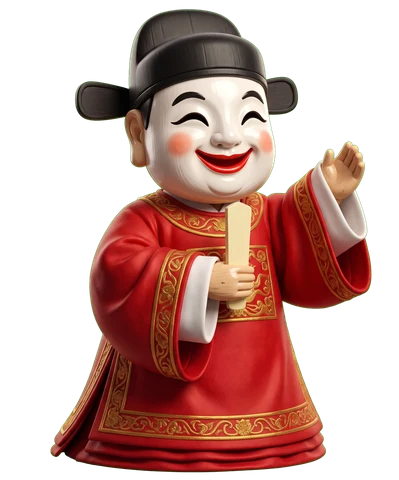
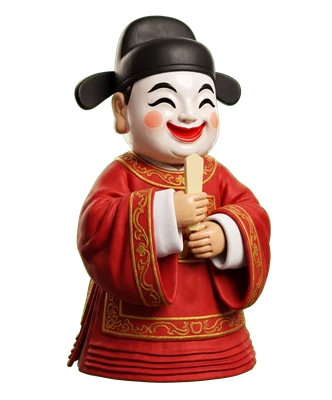
酬神戲台：戲台背景和 9 尊戲偶（關公、守關將、哪吒、敖丙、梁山伯、祝英台、惡霸、書生、跳加官換成有官帽翅膀的版本）；送神灶君換成有灶、雞、狗的新版，嘴巴位置跟著調
Claude-Session: https://claude.ai/code/session_019aNbR5ddvAxYx9BxfVzSYi

diff --git a/src/fest/games-1.js b/src/fest/games-1.js
@@ -164,7 +164,7 @@ const duster = () => `<rect x="-24" y="-22" width="48" height="94" fill="#000" o
 
 const songshen = {
   play(st, o) {
-    const ZJ_DY = hasArt('ss-zaojun') ? -3 : 4; // Gemini 灶君圖的嘴巴比畫面中心高一點
+    const ZJ_DY = hasArt('ss-zaojun') ? -14 : 4; // Gemini 灶君圖的嘴巴比畫面中心高一點
     const PRINT = [180, 200], MOUTH = [180, 200 + ZJ_DY], JAR = [72, 404], JAR_MOUTH = [72, 386];
     const BR_REST = [292, 400], DU_REST = [292, 515];
     const DUST = [[54, 452], [128, 440], [198, 460], [250, 446], [318, 470], [116, 300], [246, 120]];
